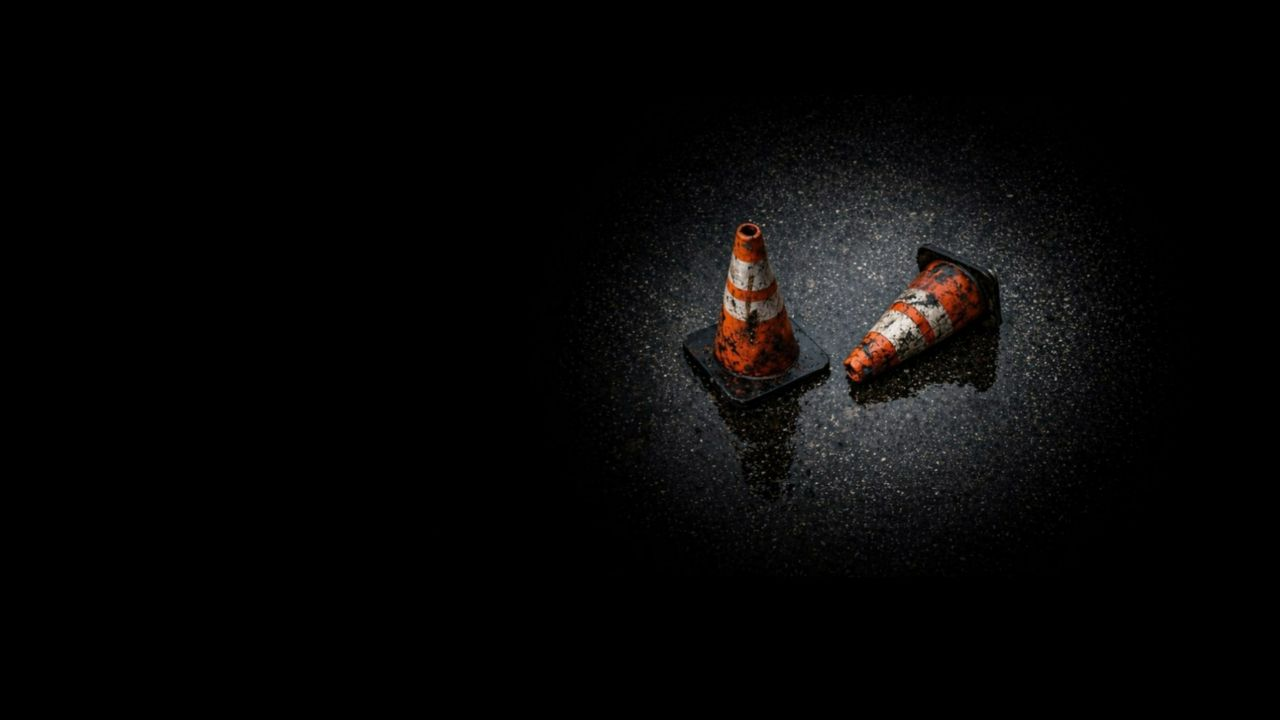
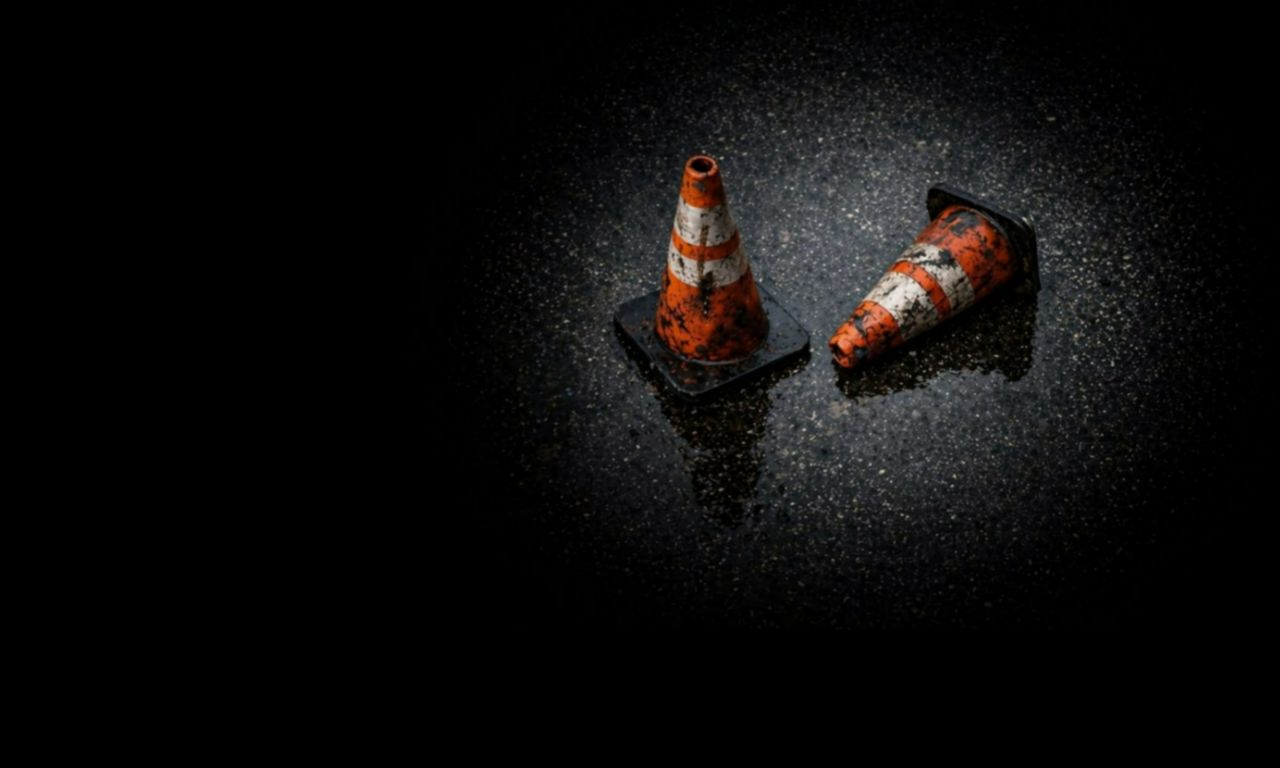
big update

Changed region(s): [[0.4062, 0.0917, 0.9062, 0.7028]]

diff --git a/app/page.js b/app/page.js
@@ -41,11 +41,8 @@ export default function DCPWebsiteV2() {
       const docHeight =
         document.documentElement.scrollHeight - window.innerHeight;
 
-      if (scrollTop > lastScrollY) {
-        setScrollDirection("down");
-      } else if (scrollTop < lastScrollY) {
-        setScrollDirection("up");
-      }
+      if (scrollTop > lastScrollY) setScrollDirection("down");
+      if (scrollTop < lastScrollY) setScrollDirection("up");
 
       lastScrollY = scrollTop;
 
@@ -76,11 +73,7 @@ export default function DCPWebsiteV2() {
 
         if (progress > 0.92) {
           const fadeOut = 1 - (progress - 0.92) / 0.08;
-
-          targetOpacity = Math.min(
-            targetOpacity,
-            Math.max(fadeOut * 0.55, 0)
-          );
+          targetOpacity = Math.min(targetOpacity, Math.max(fadeOut * 0.55, 0));
         }
       }
 
@@ -109,9 +102,10 @@ export default function DCPWebsiteV2() {
       {/* HERO */}
       <section className="relative overflow-hidden border-b border-white/10">
         <div
-          className="absolute inset-0 bg-cover bg-[position:80%_center] opacity-80 md:bg-center"
+          className="absolute inset-0 bg-cover bg-no-repeat opacity-85"
           style={{
             backgroundImage: "url('/images/backgrounds/hero-main.jpg')",
+            backgroundPosition: "center center",
           }}
         />
         <div className="absolute inset-0 bg-black/55" />
@@ -186,9 +180,9 @@ export default function DCPWebsiteV2() {
                     all a choice within emotion. All of it carries direction.
                   </p>
 
-                  <p className="mt-5 whitespace-pre-line text-base leading-7 text-white/82 md:text-lg md:leading-8">
-                    {`Words, actions, and inaction can create conflict or clarity depending on how they are delivered. What you place in your field matters. Attention determines input. Input determines emotion. CAR determines what follows.`}
-                  </p>
+                  <p className="mt-5 text-base leading-7 text-white/82 md:text-lg md:leading-8">
+  Words, actions, and inaction can create conflict or clarity depending on how they are delivered. What you place in your field matters. Attention determines input. Input determines emotion. CAR determines what follows.
+</p>
                 </div>
               </div>
             </div>
@@ -199,9 +193,17 @@ export default function DCPWebsiteV2() {
       {/* WHAT DCP IS */}
       <section className="relative overflow-hidden border-y border-white/10">
         <div
-          className="absolute inset-0 bg-cover bg-[position:22%_center] opacity-85 md:bg-[position:20%_center]"
+          className="absolute inset-0 hidden bg-cover bg-no-repeat opacity-85 md:block"
           style={{
             backgroundImage: "url('/images/backgrounds/lit-cones.jpg')",
+            backgroundPosition: "center center",
+          }}
+        />
+        <div
+          className="absolute inset-0 bg-cover bg-no-repeat opacity-85 md:hidden"
+          style={{
+            backgroundImage: "url('/images/backgrounds/lit-cones-mobile.jpg')",
+            backgroundPosition: "center center",
           }}
         />
         <div className="absolute inset-0 bg-black/62" />
@@ -272,33 +274,35 @@ export default function DCPWebsiteV2() {
       {/* CAR */}
       <section className="relative overflow-hidden border-y border-white/10">
         <div
-          className="pointer-events-none absolute inset-x-0 bottom-0 hidden h-[34%] bg-no-repeat opacity-35 portrait:block xl:hidden"
+          className="absolute inset-0 hidden bg-cover bg-no-repeat opacity-65 xl:block"
           style={{
             backgroundImage:
-              "url('/images/backgrounds/traffic-light-mobile.jpg')",
-            backgroundPosition: "center bottom",
-            backgroundSize: "68% auto",
+              "url('/images/backgrounds/statue-traffic-light.jpg')",
+            backgroundPosition: "center center",
           }}
         />
 
         <div
-          className="pointer-events-none absolute inset-0 bg-no-repeat opacity-[0.58] xl:hidden portrait:[background-position:right_-2.5rem_top_6.5rem] portrait:[background-size:95%_auto] landscape:[background-position:right_3rem_center] landscape:[background-size:30%_auto] md:portrait:[background-position:right_-2.5rem_top_7rem] md:portrait:[background-size:68%_auto] md:landscape:[background-position:right_4rem_center] md:landscape:[background-size:26%_auto]"
+          className="pointer-events-none absolute inset-0 bg-no-repeat opacity-55 xl:hidden"
           style={{
             backgroundImage:
               "url('/images/backgrounds/thinking-statue-mobile.jpg')",
+            backgroundSize: "72% auto",
+            backgroundPosition: "right -2rem top 5rem",
           }}
         />
 
         <div
-          className="absolute inset-0 hidden bg-cover opacity-60 xl:block"
+          className="pointer-events-none absolute inset-x-0 bottom-0 h-[34%] bg-no-repeat opacity-35 xl:hidden"
           style={{
             backgroundImage:
-              "url('/images/backgrounds/traffic-light-angled.jpg')",
-            backgroundPosition: "82% 36%",
+              "url('/images/backgrounds/traffic-light-mobile.jpg')",
+            backgroundSize: "66% auto",
+            backgroundPosition: "center bottom",
           }}
         />
 
-        <div className="absolute inset-0 bg-black/35" />
+        <div className="absolute inset-0 bg-black/42" />
 
         <div className="relative mx-auto max-w-7xl px-5 py-16 md:px-8 md:py-20">
           <div className="grid gap-10 lg:grid-cols-[0.9fr_1.1fr] lg:items-start">
@@ -374,7 +378,7 @@ export default function DCPWebsiteV2() {
       {/* WHY IT MATTERS */}
       <section className="relative overflow-hidden border-y border-white/10">
         <div
-          className="absolute inset-0 bg-cover bg-center opacity-80"
+          className="absolute inset-0 bg-cover bg-center bg-no-repeat opacity-80"
           style={{
             backgroundImage:
               "url('/images/backgrounds/section-bg-pressure.jpg')",
@@ -433,9 +437,10 @@ export default function DCPWebsiteV2() {
       {/* FULL PDF + CONTACT */}
       <section className="relative mx-auto max-w-7xl overflow-hidden px-5 py-16 md:px-8 md:py-20">
         <div
-          className="absolute inset-0 bg-cover bg-[position:calc(50%-316px)_center] opacity-[0.85]"
+          className="absolute inset-0 bg-cover bg-no-repeat opacity-85"
           style={{
             backgroundImage: "url('/images/backgrounds/futures.jpg')",
+            backgroundPosition: "center center",
           }}
         />
         <div className="absolute inset-0 bg-black/70" />

diff --git a/app/future/page.js b/app/future/page.js
@@ -24,11 +24,6 @@ const futureCards = [
 ];
 
 // VISUAL ALIGNMENT CONTROLS
-const TOP_IMAGE_SIZE = typeof window !== "undefined" && window.innerWidth >= 1024 ? "50% auto" : "cover";
-const BOTTOM_IMAGE_SIZE = typeof window !== "undefined" && window.innerWidth >= 1024 ? "50% auto" : "cover";
-const TOP_IMAGE_X_OFFSET = -8;
-const TOP_IMAGE_Y = "49%";
-const BOTTOM_IMAGE_Y = "54%";
 
 export default function FuturePage() {
   const [scrollCueOpacity, setScrollCueOpacity] = useState(0);
@@ -77,30 +72,22 @@ export default function FuturePage() {
 
   return (
     <div className="min-h-screen overflow-x-hidden bg-black text-white selection:bg-blue-500/25 selection:text-white">
-      {/* FIXED BACKGROUND STAGE */}
-      <div className="pointer-events-none fixed inset-0 z-0 bg-black">
-        <div
-          className="absolute inset-x-0 top-0 h-1/2 bg-no-repeat opacity-95"
-          style={{
-            backgroundImage: "url('/images/backgrounds/DCP-coming-soon.jpg')",
-            backgroundPosition: `calc(50% + ${TOP_IMAGE_X_OFFSET}px) ${TOP_IMAGE_Y}`,
-            backgroundSize: TOP_IMAGE_SIZE,
-          }}
-        />
-        <div className="absolute inset-x-0 top-0 h-1/2 bg-black/[0.54]" />
 
-        <div
-          className="absolute inset-x-0 bottom-0 h-1/2 bg-no-repeat opacity-95"
-          style={{
-            backgroundImage: "url('/images/backgrounds/otter.jpg')",
-            backgroundPosition: `center ${BOTTOM_IMAGE_Y}`,
-            backgroundSize: BOTTOM_IMAGE_SIZE,
-          }}
-        />
-        <div className="absolute inset-x-0 bottom-0 h-1/2 bg-black/[0.54]" />
+{/* FIXED BACKGROUND STAGE */}
+<div className="pointer-events-none fixed inset-0 z-0 bg-black">
+   <div
+  className="absolute inset-0 bg-no-repeat opacity-100"
+  style={{
+    backgroundImage: "url('/images/backgrounds/DCP-future.jpg')",
+    backgroundSize: "67% auto",
+    backgroundPosition: "center 8%",
+  }}
+/>
 
-        <div className="absolute inset-0 bg-[radial-gradient(circle_at_18%_16%,rgba(59,130,246,0.14),transparent_24%),radial-gradient(circle_at_78%_18%,rgba(255,255,255,0.05),transparent_18%)]" />
-      </div>
+  <div className="absolute inset-0 bg-black/[0.38]" />
+
+  <div className="absolute inset-0 bg-[radial-gradient(circle_at_18%_16%,rgba(59,130,246,0.14),transparent_24%),radial-gradient(circle_at_78%_18%,rgba(255,255,255,0.05),transparent_18%)]" />
+</div>
 
       {/* DCP ID */}
       <img
